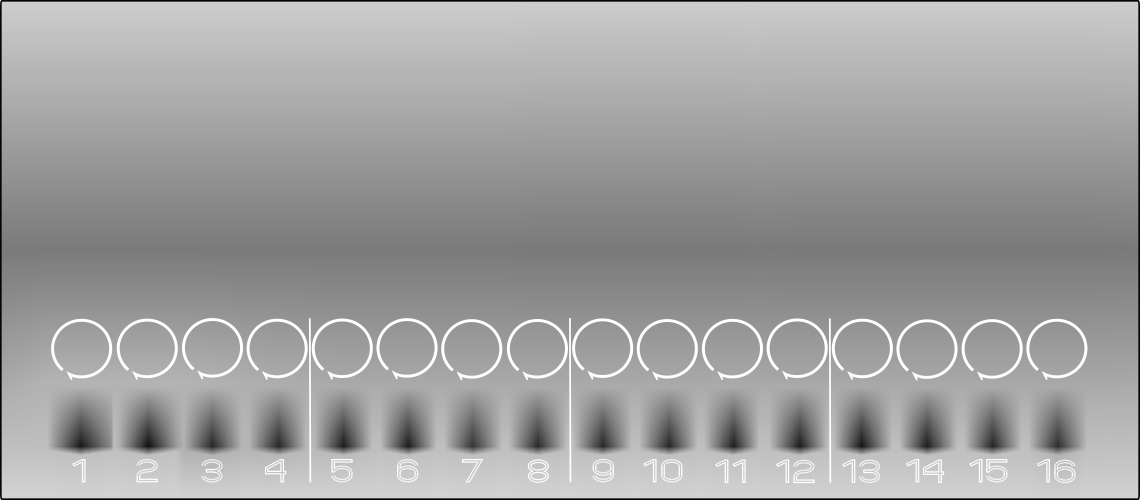
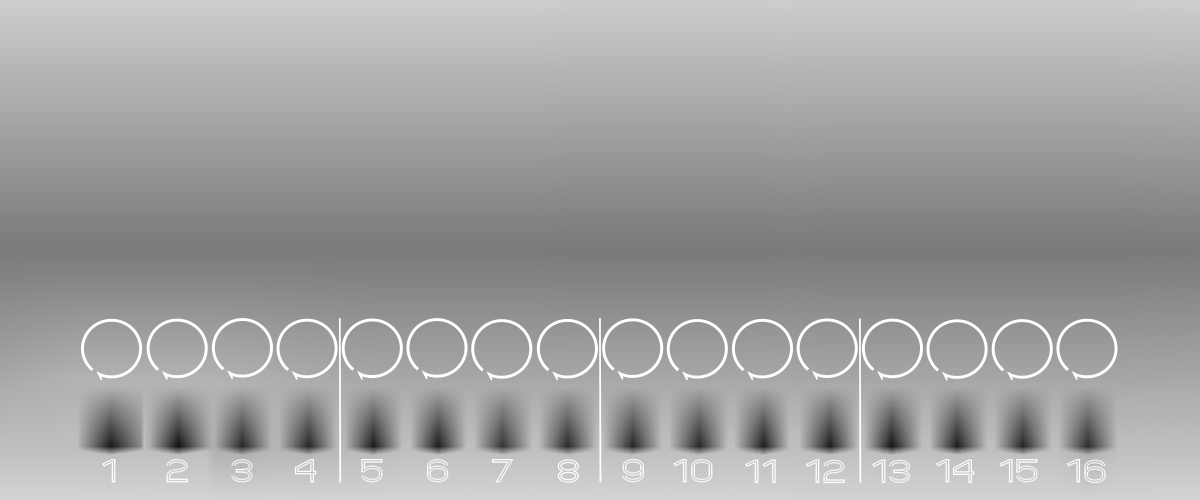
[minor] wider back panel

diff --git a/Source/Parameters.h b/Source/Parameters.h
@@ -81,7 +81,7 @@ namespace  ParameterNames
 namespace ComponentSizes
 {
 	static int windowHeight					{ 500 };
-	static int windowWidth					{ 1140 };
+	static int windowWidth					{ 1200 };
 
 	static int StepButtonHeight				{ 65 };
 	static int StepButtonWidth				{ 65 };
@@ -96,7 +96,7 @@ namespace ComponentSizes
 
 namespace ComponentPositions
 {
-	static int PixelsFromLeftEdgeToFirstLED	{ 98 };
+	static int PixelsFromLeftEdgeToFirstLED	{ 128 };
 	static int NumberOfPixelsBetweenLEDs	{ 65 };
 	static int YPositionOfLEDs				{ 450 };
 }
